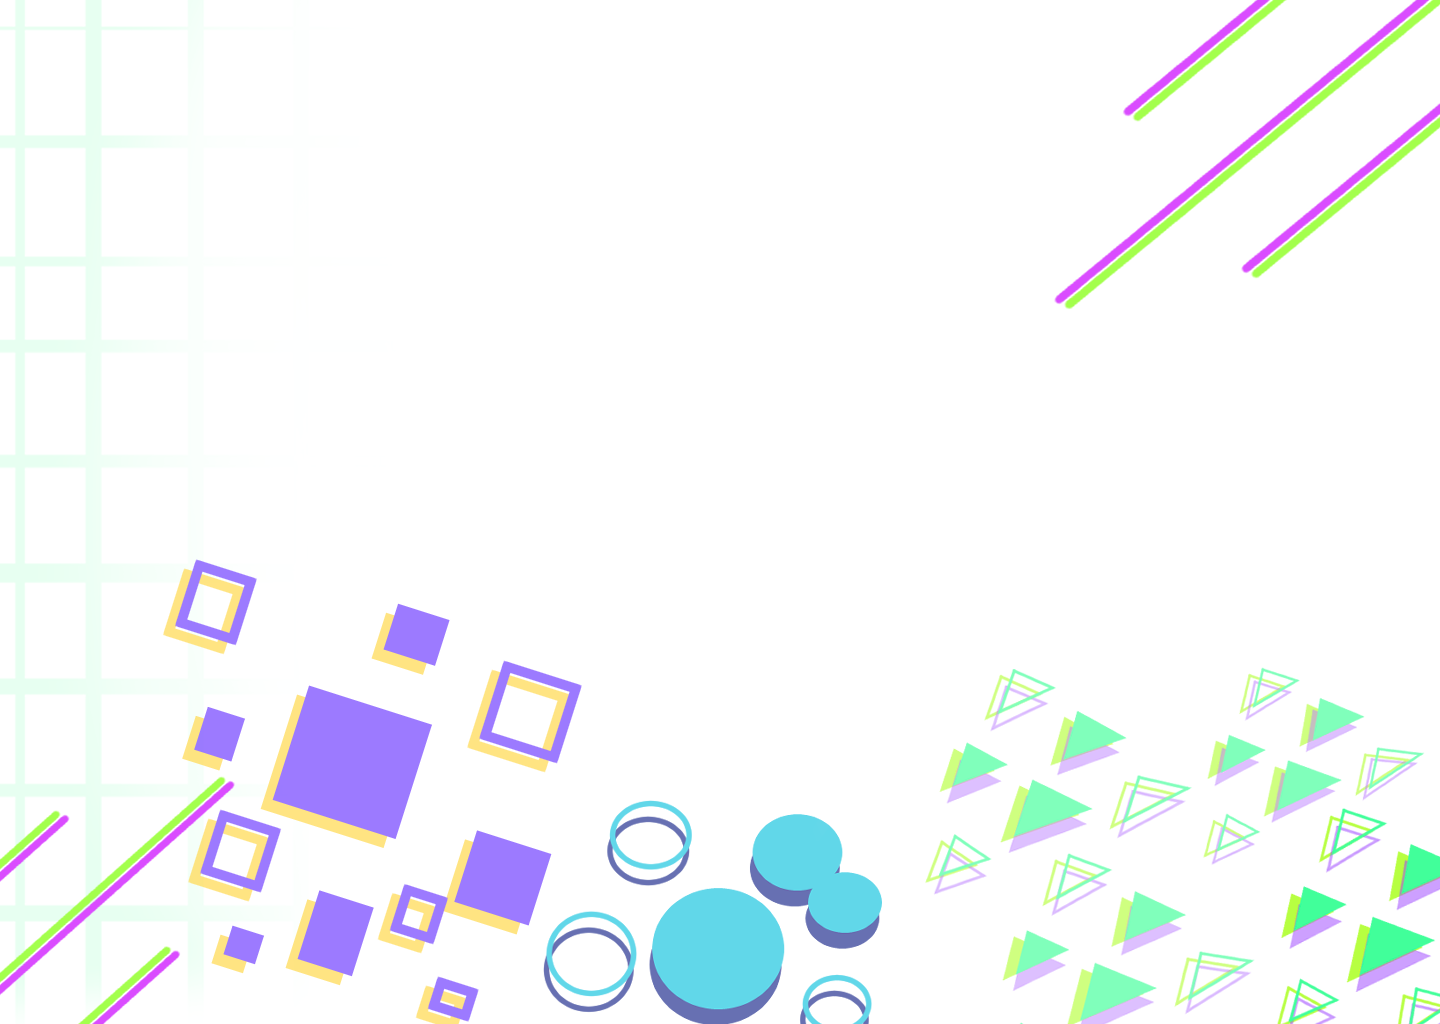
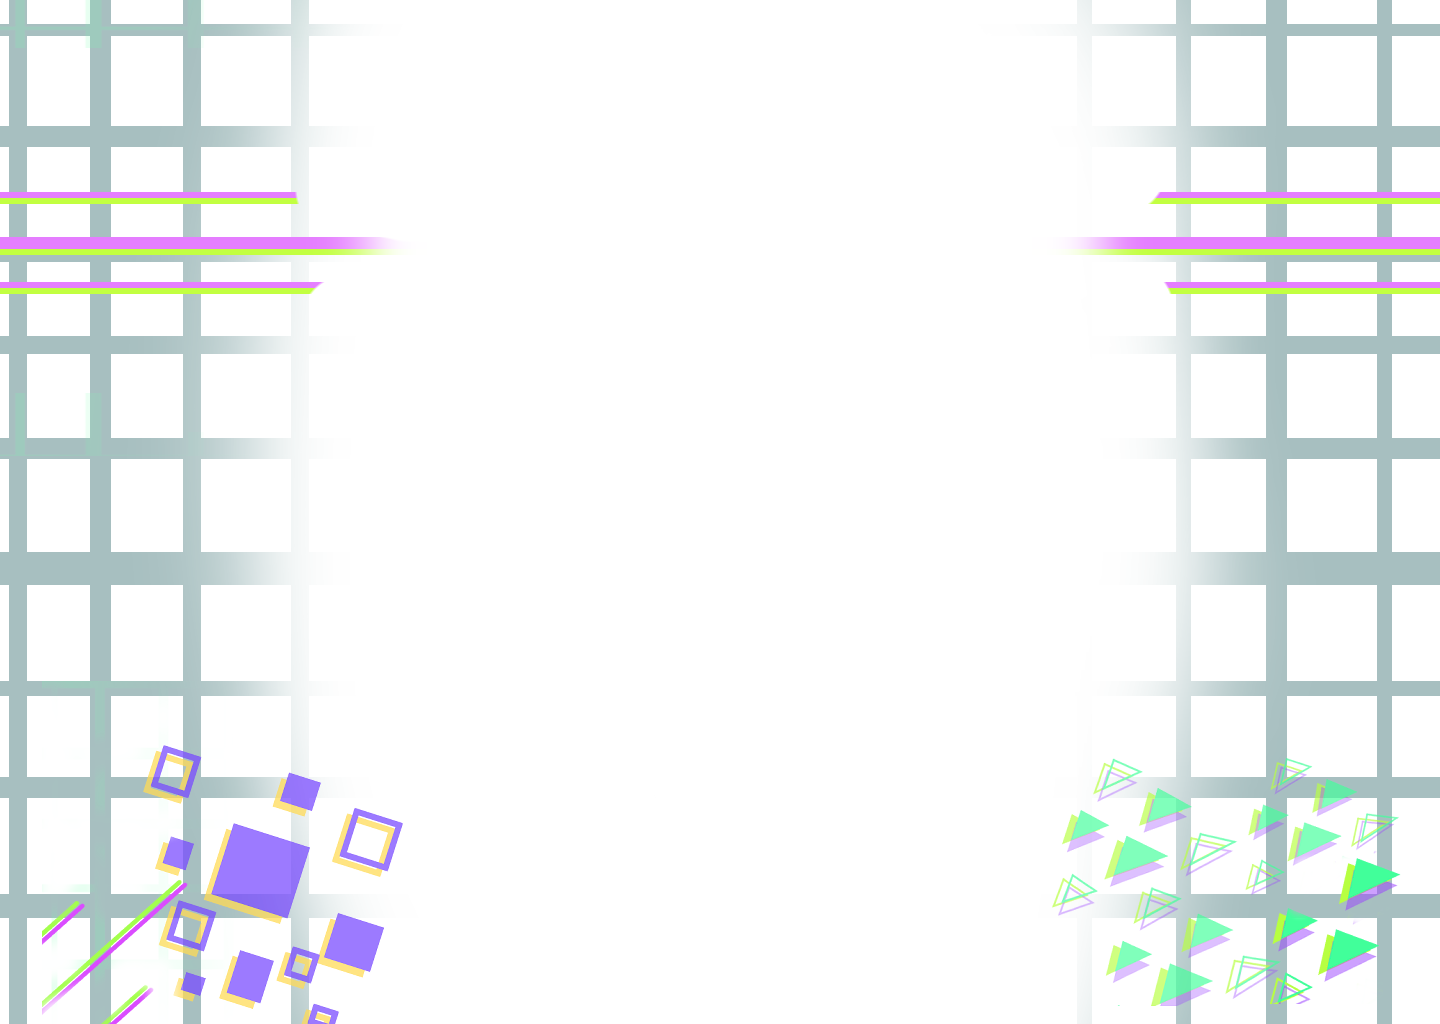
Definição do fundo do feed

Changed region(s): [[0.0, 0.0, 1.0, 1.0], [0.25, 0.5938, 0.3125, 0.6562], [0.7188, 0.2812, 0.75, 0.3125]]

diff --git a/src/app/feed/feed.component.css b/src/app/feed/feed.component.css
@@ -1,17 +1,10 @@
 .fundo-escuro {
   background-color: #263238;
 
-  /* Opção 1 */
-  background-image: url('../../assets/imagens/fundofeed_op3_cortado.png');
-  background-repeat: no-repeat;
-  background-attachment: fixed;
-  background-position: right bottom;
-
-  /* Opção 2 */
-  /* background-image: url('../../assets/imagens/fundofeed_op1_continuo.png');
+  background-image: url('../../assets/imagens/fundofeed_op1.png');
   background-repeat: repeat-x;
   background-attachment: fixed;
-  background-size: auto 100vh; */
+  background-size: auto 100vh;
 }
 
 .img-size-user {
@@ -115,6 +108,15 @@ a {
 
   .card-body p {
     width: 95% !important;
+  }
+
+  .fundo-escuro {
+    background-color: #263238;
+
+    background-image: url('../../assets/imagens/fundofeed_op1.png');
+    background-attachment: fixed;
+    background-size: auto 100vh;
+    background-position: bottom right;
   }
 
 
